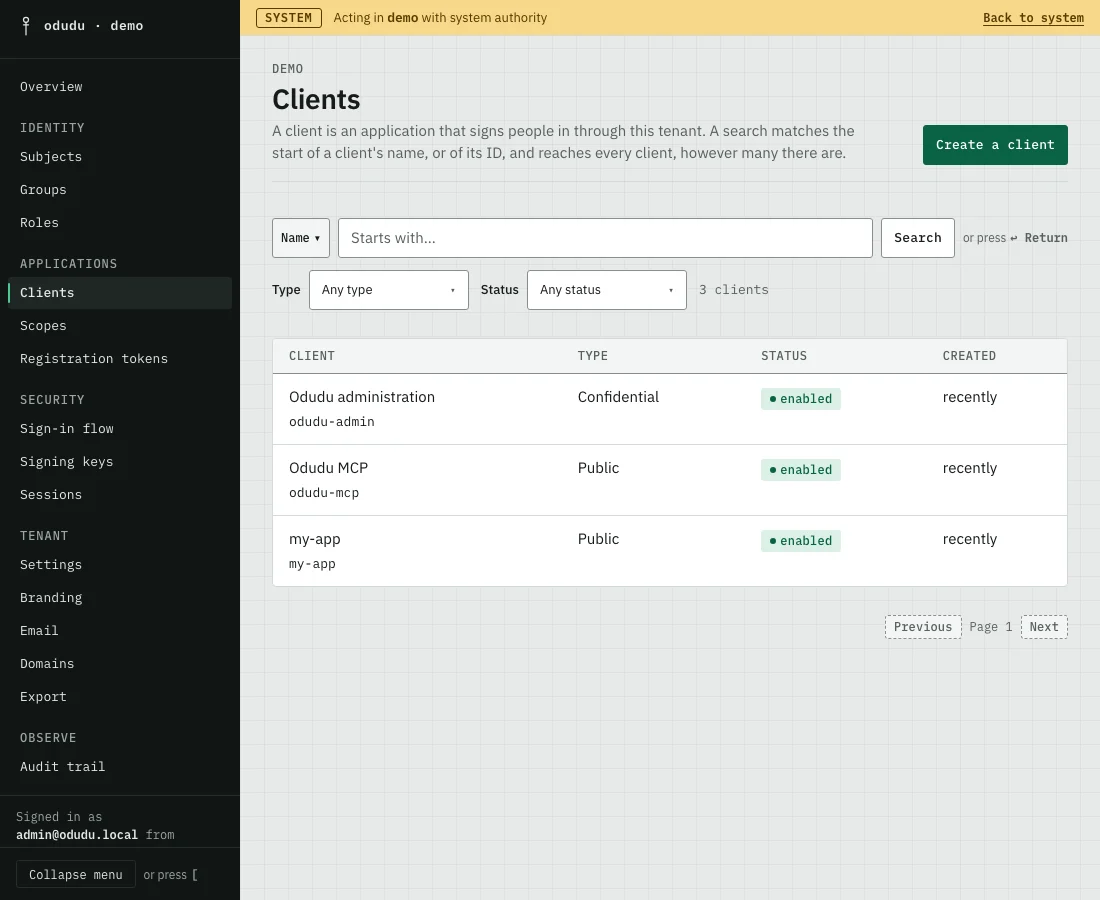
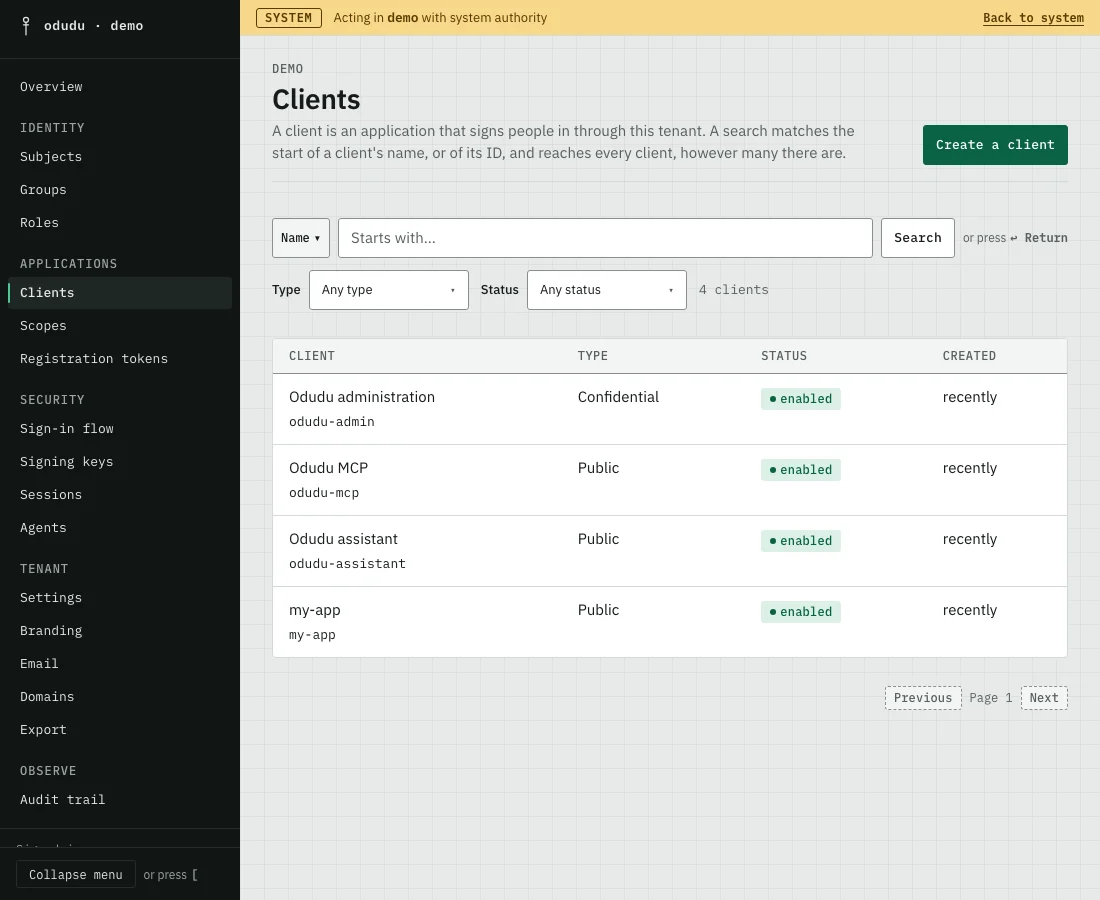
docs: recapture the console pictures that list odudu-assistant
The Clients list, the overview counts and the client choices of the
email and mail-preview screens now show the third built-in client. The
clients screen expects its row, and the captions and alt text say three.

diff --git a/apps/docs/scripts/console-shots/screens.ts b/apps/docs/scripts/console-shots/screens.ts
@@ -128,13 +128,13 @@ export const SCREENS: readonly Screen[] = [
   },
   {
     name: 'clients',
-    alt: "The demo tenant's Clients list: the built-in odudu-admin and odudu-mcp clients and my-app, with a Create a client button.",
-    caption: 'The demo tenant lists my-app beside its two built-in clients.',
+    alt: "The demo tenant's Clients list: the three built-in clients, odudu-admin, odudu-mcp and odudu-assistant, and my-app, with a Create a client button.",
+    caption: 'The demo tenant lists my-app beside its three built-in clients.',
     signedIn: true,
     expect: [
       { heading: 'Clients' },
       { role: 'link', name: 'Create a client' },
-      { rows: ['odudu-admin', 'odudu-mcp', CLIENT] },
+      { rows: ['odudu-admin', 'odudu-mcp', 'odudu-assistant', CLIENT] },
     ],
     open: (page, context) => openList(page, context, 'clients'),
   },
